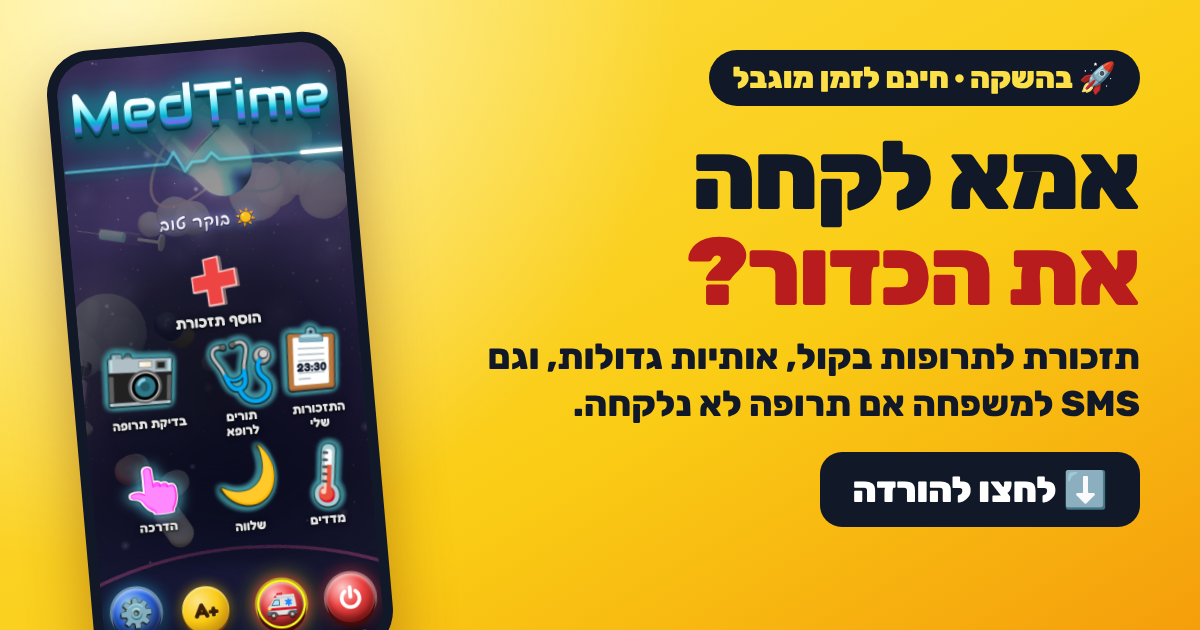
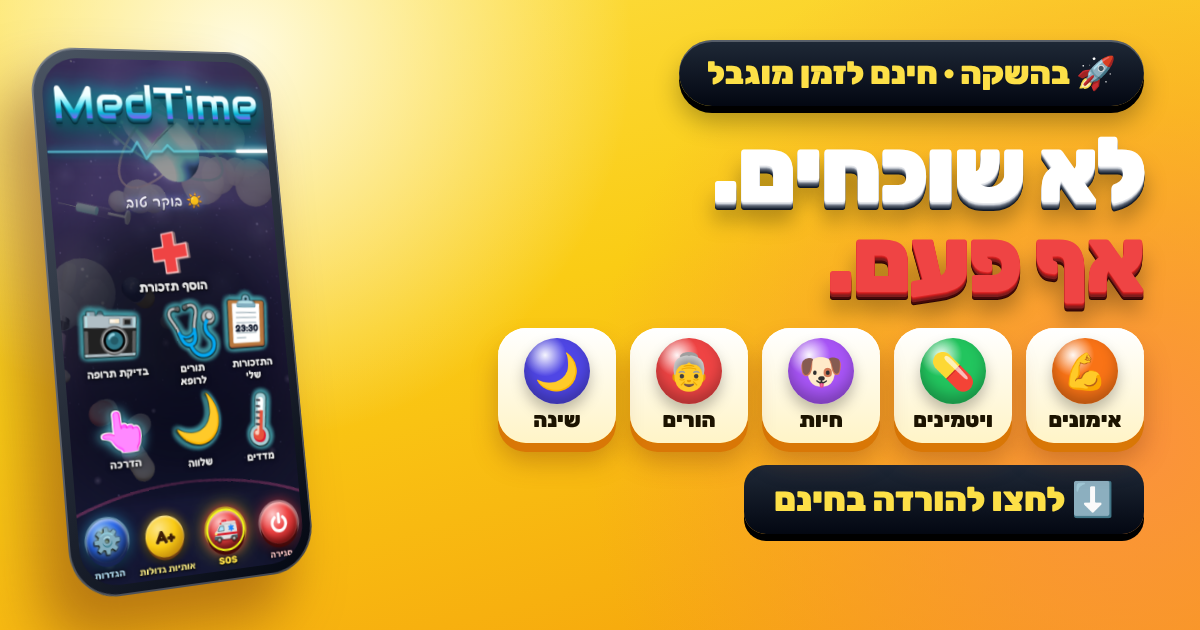
M-316: 3D ad picture for all ages as the link preview
Claude-Session: https://claude.ai/code/session_01A9pNaGupDEjWngj1PsdFue

diff --git a/docs/download.html b/docs/download.html
@@ -4,8 +4,8 @@
 <meta charset="utf-8">
 <meta name="viewport" content="width=device-width, initial-scale=1">
 <title>MedTime – הורדה</title>
-<meta property="og:title" content="MedTime 💊 אמא לקחה את הכדור?">
-<meta property="og:description" content="תזכורות לתרופות בקול, אותיות גדולות, ו־SMS למשפחה אם תרופה לא נלקחה. בהשקה: חינם לזמן מוגבל. לחצו להורדה">
+<meta property="og:title" content="MedTime 💊 לא שוכחים. אף פעם.">
+<meta property="og:description" content="תזכורות בקול לתרופות, ויטמינים, חלבון, מים ואפילו לכלב. SMS למשפחה, ומצב שלווה לשינה. בהשקה: חינם לזמן מוגבל">
 <meta property="og:image" content="https://mailroni-cell.github.io/MedTime-App/store/og-ad.png">
 <meta property="og:image:width" content="1200">
 <meta property="og:image:height" content="630">
